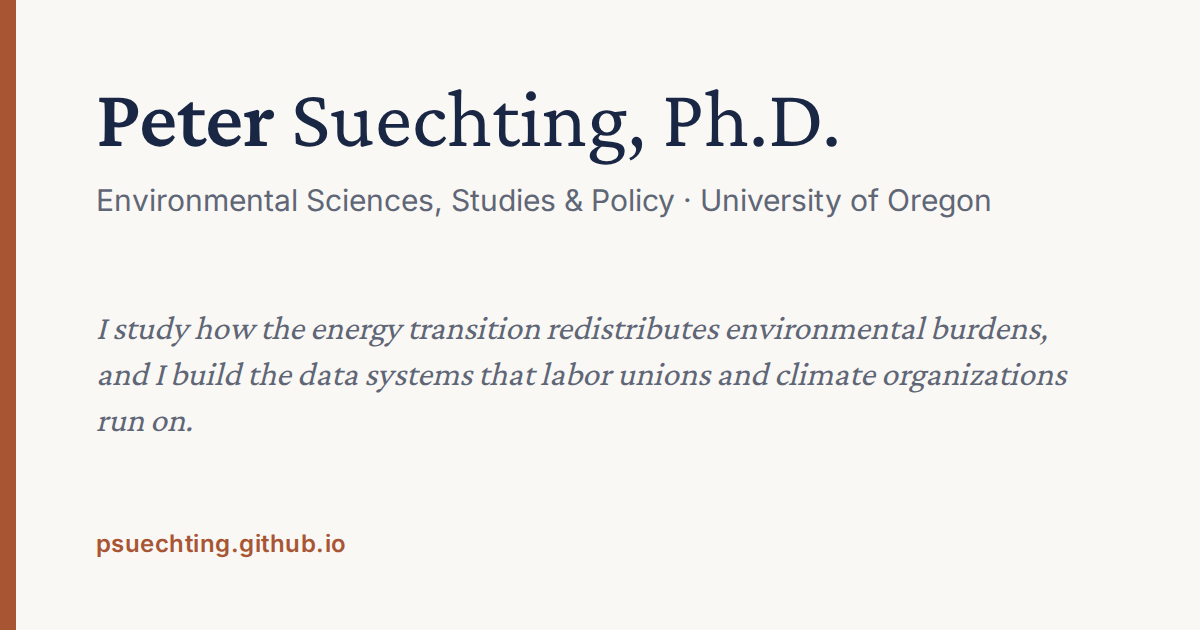
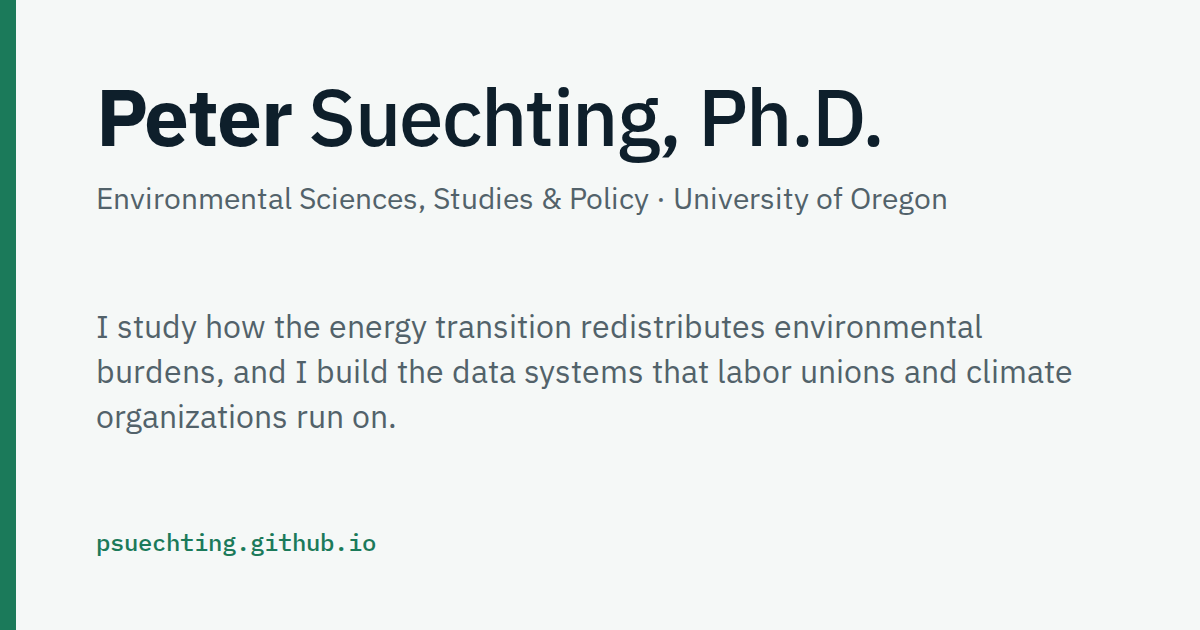
Re-theme: "Signal" — cool paper, forest green, IBM Plex
Replaces the warm-paper / terracotta / serif look with a cooler,
more digital one, chosen from three rendered candidates.

- Palette: bg #F5F8F7, ink #0E1F2B, accent #1B7A5A, secondary #52626A,
  card #E8EFEC, line #CFDAD5; dark: bg #0C1418, text #E4ECEA, accent
  #4FC995. Every text/background pair >= 4.5:1 (light and dark).
- Fonts: IBM Plex Sans for headings (500/700, tight tracking) and
  body; IBM Plex Mono for dates, labels, chips and the NOW line.
  The hero tagline is no longer italic serif.
- CV sheet pins the new light palette; CV dates set in mono.
- Favicon, link-preview image (regenerated) and PRODUCT.md updated.
- Also: underline the ProQuest link in the CV's dissertation line
  (flagged by the audit), and give nav links a 24px minimum width.

axe-core: 0 violations on all pages at 1280px and 390px; no tap
target under 24px.

diff --git a/src/styles/global.css b/src/styles/global.css
@@ -1,19 +1,21 @@
 :root {
-	--color-bg: #FAF8F5;
-	--color-text: #1A2744;
-	--color-accent: #A85533;
-	--color-text-secondary: #5F6675;
-	--color-card-bg: #F3F0EB;
-	--color-timeline-line: #E5E0D8;
+	/* "Signal": cool paper, ink text, forest-green accent. All pairs >= 4.5:1. */
+	--color-bg: #F5F8F7;
+	--color-text: #0E1F2B;
+	--color-accent: #1B7A5A;
+	--color-text-secondary: #52626A;
+	--color-card-bg: #E8EFEC;
+	--color-timeline-line: #CFDAD5;
 	--color-on-accent: #FFFFFF;
-	--color-shadow: rgba(26, 39, 68, 0.08);
-	--color-shadow-strong: rgba(26, 39, 68, 0.1);
+	--color-shadow: rgba(14, 31, 43, 0.08);
+	--color-shadow-strong: rgba(14, 31, 43, 0.12);
 	color-scheme: light;
 
-	--font-heading: 'Crimson Pro', serif;
-	--font-body: 'Inter', sans-serif;
-	
-	--radius: 8px;
+	--font-heading: 'IBM Plex Sans', system-ui, sans-serif;
+	--font-body: 'IBM Plex Sans', system-ui, sans-serif;
+	--font-mono: 'IBM Plex Mono', ui-monospace, monospace;
+
+	--radius: 6px;
 	--transition: 0.3s ease;
 	--container-max: 1000px;
 	/* Comfortable line length for running text. */
@@ -23,13 +25,13 @@
 /* Dark palette: follows the system setting unless the toggle has set data-theme. */
 @media (prefers-color-scheme: dark) {
 	:root:not([data-theme="light"]) {
-		--color-bg: #15181F;
-		--color-text: #ECE7DF;
-		--color-accent: #E08A62;
-		--color-text-secondary: #A6A9B3;
-		--color-card-bg: #1F232C;
-		--color-timeline-line: #343945;
-		--color-on-accent: #15181F;
+		--color-bg: #0C1418;
+		--color-text: #E4ECEA;
+		--color-accent: #4FC995;
+		--color-text-secondary: #9FB0AC;
+		--color-card-bg: #142026;
+		--color-timeline-line: #26343B;
+		--color-on-accent: #0C1418;
 		--color-shadow: rgba(0, 0, 0, 0.35);
 		--color-shadow-strong: rgba(0, 0, 0, 0.5);
 		color-scheme: dark;
@@ -37,13 +39,13 @@
 }
 
 :root[data-theme="dark"] {
-	--color-bg: #15181F;
-	--color-text: #ECE7DF;
-	--color-accent: #E08A62;
-	--color-text-secondary: #A6A9B3;
-	--color-card-bg: #1F232C;
-	--color-timeline-line: #343945;
-	--color-on-accent: #15181F;
+	--color-bg: #0C1418;
+	--color-text: #E4ECEA;
+	--color-accent: #4FC995;
+	--color-text-secondary: #9FB0AC;
+	--color-card-bg: #142026;
+	--color-timeline-line: #26343B;
+	--color-on-accent: #0C1418;
 	--color-shadow: rgba(0, 0, 0, 0.35);
 	--color-shadow-strong: rgba(0, 0, 0, 0.5);
 	color-scheme: dark;
@@ -82,7 +84,8 @@ body {
 
 h1, h2, h3 {
 	font-family: var(--font-heading);
-	font-weight: 400;
+	font-weight: 500;
+	letter-spacing: -0.015em;
 	color: var(--color-text);
 	text-wrap: balance;
 }
@@ -119,10 +122,41 @@ a:hover {
 	color: var(--color-text);
 }
 
+/* Data-like elements (dates, labels, chips) set in mono: the systems half of the brief. */
+.tl-date,
+.ledger-label,
+.keyword-years,
+.feature-eyebrow,
+.now-label,
+.now,
+.post-meta,
+.contact-label,
+.tag,
+.cv-date,
+.employment-date {
+	font-family: var(--font-mono);
+	letter-spacing: 0;
+	font-size: 13px;
+}
+
+.tag {
+	font-size: 12.5px;
+	border-radius: 4px;
+}
+
+.feature-eyebrow,
+.now-label,
+.contact-label {
+	text-transform: uppercase;
+	letter-spacing: 0.06em;
+	font-size: 12px;
+}
+
 /* Links inside running text are underlined, so colour isn't the only cue. */
 .prose a:not(.button),
 .source a,
 .cv-contact a,
+.cv-detail a,
 .article-meta a,
 .ledger-meta a {
 	text-decoration: underline;
@@ -165,7 +199,7 @@ a:hover {
 }
 
 .hero .name strong {
-	font-weight: 600;
+	font-weight: 700;
 }
 
 .hero .job-title {
@@ -225,9 +259,8 @@ a:hover {
 }
 
 .hero .lead {
-	font-family: var(--font-heading);
-	font-size: 22px;
-	font-style: italic;
+	font-size: 20px;
+	line-height: 1.55;
 	color: var(--color-text-secondary);
 	max-width: 700px;
 	margin-bottom: 24px;
@@ -630,7 +663,9 @@ a:hover {
 
 .site-nav ul a {
 	display: inline-block;
-	padding: 10px 2px;
+	min-width: 24px;
+	padding: 10px 4px;
+	text-align: center;
 	font-size: 15px;
 	color: var(--color-text-secondary);
 	white-space: nowrap;
@@ -932,7 +967,7 @@ button:focus-visible {
 .chapter h3::before {
 	content: 'Chapter ' counter(chapter);
 	display: block;
-	font-family: var(--font-body);
+	font-family: var(--font-mono);
 	font-size: 12px;
 	font-weight: 600;
 	letter-spacing: 0.04em;
@@ -1115,10 +1150,10 @@ a.tag:hover {
 
 .cv {
 	/* The CV is a sheet of paper: keep the light palette in both themes. */
-	--color-text: #1A2744;
-	--color-accent: #A85533;
-	--color-text-secondary: #5F6675;
-	--color-timeline-line: #E5E0D8;
+	--color-text: #0E1F2B;
+	--color-accent: #1B7A5A;
+	--color-text-secondary: #52626A;
+	--color-timeline-line: #CFDAD5;
 	color-scheme: light;
 	color: var(--color-text);
 	max-width: 8.5in;

diff --git a/PRODUCT.md b/PRODUCT.md
@@ -37,7 +37,7 @@ The site's distinctive claim is the pairing itself: a Ph.D. researcher who also 
 - All content is data: YAML files in `src/data/`, Markdown collections in `src/content/`, and `src/data/profile.ts`. Every entry is validated against `src/content.config.ts` at build time. Components in `src/components/` render that data; all styling lives in `src/styles/global.css`.
 - Pages: home, `/about/` (full bio), `/research/dissertation/`, `/projects/<id>/` (two published), `/cv/` (printable, also rendered to PDF), `/writing/` with tag pages and RSS (one draft post, section hidden until a post is published), and a 404.
 - Light and dark themes: system preference by default, with a toggle in the nav that persists to local storage.
-- Fonts are Crimson Pro and Inter from Google Fonts. Icons are inline SVG; there is no icon library.
+- Fonts are IBM Plex Sans (headings and body) and IBM Plex Mono (dates, labels, chips) from Google Fonts. Palette: cool paper `#F5F8F7`, ink `#0E1F2B`, forest-green accent `#1B7A5A` (mint `#4FC995` in dark mode); every text/background pair meets 4.5:1. Icons are inline SVG; there is no icon library.
 - The `dissertation_project/` folder at the repo root is private Notion working files. It is not site content and must never be surfaced, linked, or used as evidence on the published site.
 
 ## Capabilities and Constraints
